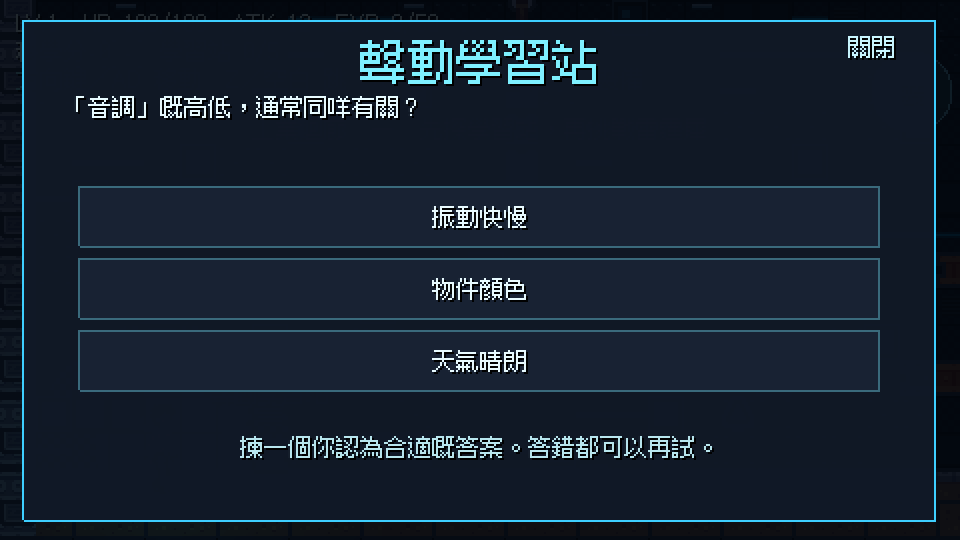
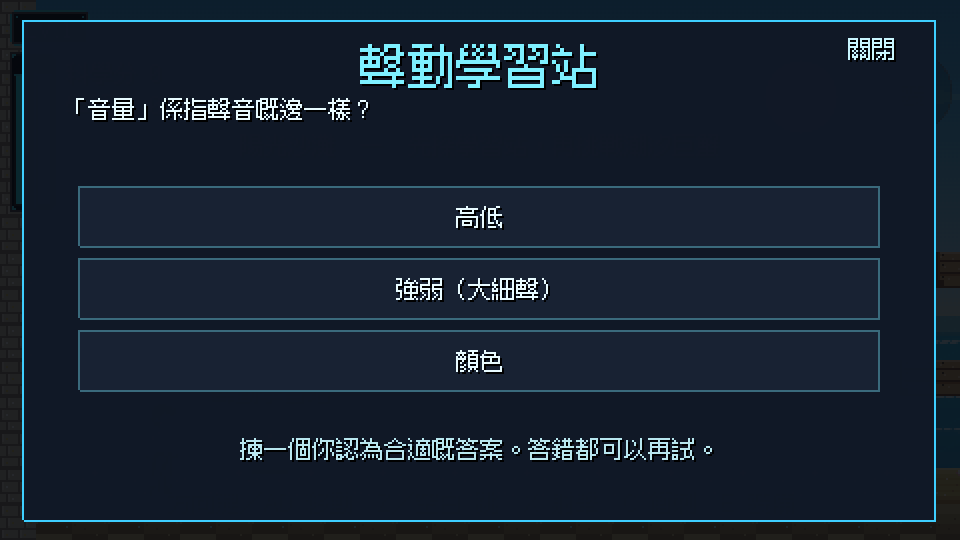
陽光海灘、踏腳平台、小動物敵人與點陣字

diff --git a/index.html b/index.html
@@ -25,7 +25,7 @@
     }
     * { margin: 0; padding: 0; box-sizing: border-box; }
     html, body {
-      background: #2a1218;
+      background: #5ec8ee;
       width: 100%;
       height: 100%;
       overflow: hidden;
@@ -35,7 +35,7 @@
     }
     body { display: flex; justify-content: center; align-items: center; font-family: "Fusion Pixel", sans-serif; }
     #game-container { width: 100%; height: 100%; }
-    canvas { image-rendering: pixelated; image-rendering: crisp-edges; box-shadow: 0 0 32px rgba(180, 70, 40, 0.28); }
+    canvas { image-rendering: pixelated; image-rendering: crisp-edges; box-shadow: 0 0 32px rgba(40, 140, 200, 0.28); }
     .font-warmup {
       position: absolute;
       left: -9999px;

diff --git a/README.md b/README.md
@@ -2,7 +2,7 @@
 
 原創科幻像素橫向捲軸動作 RPG。向經典 16-bit／NDS 風格側視動作遊戲致敬，但**並非官方洛克人作品**，亦無使用任何官方角色、精靈圖、音樂或盜用素材。
 
-你扮演一位原創像素獵人（根據提供相片繪製：卷发、白色唐裝領襯衫、黑色長褲、赤褐色運動鞋、前臂青色手砲，沒有頭盔），喺黃昏戶外工業遺跡裡衝刺、蹬牆跳、探索學習站、收集裝甲零件同晶片，最後挑戰多階段首領「雷霆犀」。畫面風格向經典掌機橫向動作遊戲致敬，但所有遠景、平台同介面均為本專案原創像素圖，並無使用任何官方洛克人／Zero／ZX 精靈圖、圖塊、HUD 或音樂。
+你扮演一位原創像素獵人（根據提供相片繪製：卷发、白色唐裝領襯衫、黑色長褲、赤褐色運動鞋、前臂青色手砲，沒有頭盔），喺陽光海灘關卡裡衝刺、跳躍、探索學習站、收集裝甲零件同晶片，最後挑戰多階段首領「潮汐巨蟹」。畫面係開心嘅晴天沙灘（原創 NDS 密度像素遠景），沿途敵人係可愛小動物，並無使用任何官方洛克人／Zero／ZX 精靈圖、圖塊、HUD 或音樂。蹬牆跳仍然可用作捷徑，但主路、五個學習站同沿途零件都可以用普通跳躍到達。
 
 本遊戲對齊香港小學二年級科學、校本 2627 學段二課題，供課堂探索練習，**勿直接當評核試卷**。
 
@@ -55,21 +55,21 @@ npm run preview
 - 每站會從題庫抽出一題尚未答過嘅題目（每課題約 3–4 題，合共 20 題），三選一，字體同按鈕都偏大，方便 iPad 點擊。
 - 答對會看到一句解釋、加「科學分」，並可用瀏覽器語音（`zh-HK`）讀出關鍵生字；答錯會得到提示，可以再試，唔會卡住，亦唔會責罵。
 - 畫面會顯示科學分同學習站進度（例如「學習站 2/5」）。
-- 要先喺五個課題都至少答對一題，先可以打開首領門挑戰「雷霆犀」。如果提早走到門前，會有友善提示，請先完成學習站。
+- 要先喺五個課題都至少答對一題，先可以打開首領門挑戰「潮汐巨蟹」。如果提早走到門前，會有友善提示，請先完成學習站。
 
 呢部分係課堂練習／探索，不是測驗，沒有考試記分用意。
 
 ### 關卡同首領
 
-黃昏工業遺跡由左至右推進，途中有高牆可以練習貼牆滑行同蹬牆跳。地圖係真實 Tiled 1.x JSON（`public/assets/maps/stage1.json`），以 Phaser 嘅 tilemap 載入器讀取。關卡有分層黃昏遠景（天空、遠處剪影、中景廢墟）同原創地面圖塊；碰撞形狀同物件位置維持不變。
+陽光海灘由左至右推進。地圖係真實 Tiled 1.x JSON（`public/assets/maps/stage1.json`），以 Phaser 嘅 tilemap 載入器讀取。關卡有分層晴空／海面／棕櫚遠景，同原創沙地、木棧道圖塊。原有碰撞佔位同物件位置維持不變，另外加咗踏腳平台，令主路同學習站唔需要蹬牆跳都可以上去。
 
-關卡盡頭係首領擂台。完成五個學習站後，踏入觸發區鏡頭會鎖喺擂台，「雷霆犀」分三階段戰鬥：
+關卡盡頭係首領擂台。完成五個學習站後，踏入觸發區鏡頭會鎖喺擂台，「潮汐巨蟹」分三階段戰鬥：
 
 1. 巡邏、砲火齊射、跳躍同角撞。
 2. 約三分二血量：加速、橫向衝撞、地面震擊彈。
 3. 約四分一血量：絕望模式（落彈＋螺旋彈＋衝撞），外觀會有電光光環。
 
-擊破後會得到經驗值同獨特零件「雷霆角盔」，並顯示過關訊息。如果戰鬥中力盡，按「跳」可以在擂台入口重新起動（首領會重置，已有裝備同等級會保留）。
+擊破後會得到經驗值同獨特零件「潮汐甲盔」，並顯示過關訊息。如果戰鬥中力盡，按「跳」可以在擂台入口重新起動（首領會重置，已有裝備同等級會保留）。
 
 ## GitHub Pages
 
@@ -81,7 +81,7 @@ npm run preview
 
 嵌入 Google Sites：選「嵌入」→「依網址」，貼上面呢條即可。
 
-**注意：** 本次係本機更新（黃昏遠景畫面、左側 HUD、清晰字體、相片主角、學習站）。線上 GitHub Pages 尚未同步，需要稍後另一步先推送更新。
+**注意：** 本次係本機更新（陽光海灘、踏腳平台、小動物敵人、潮汐巨蟹、點陣介面字）。線上 GitHub Pages 尚未同步，需要稍後另一步先推送更新。
 
 ## 技術棧
 
@@ -92,11 +92,11 @@ npm run preview
 
 ## 素材同授權
 
-- 地圖圖塊：Kenney.nl《Pixel Platformer Industrial Expansion》（CC0）。完整授權見 `LICENSE-Kenney-Pixel-Platformer-Industrial-Expansion.txt`。本專案另加一列背景牆面同第九列原創地面／平台／桁架圖塊（同樣以 CC0／與主程式 MIT 相容方式提供）。
-- 黃昏遠景、太陽、介面能量條外框、擊中火花同槍口閃光：本專案原創像素圖，並非官方洛克人素材。
-- 介面字型：[Fusion Pixel Font](https://github.com/TakWolf/fusion-pixel-font)（SIL Open Font License 1.1）。完整授權見 `LICENSE-Fusion-Pixel-Font.txt`。
+- 地圖圖塊：Kenney.nl《Pixel Platformer Industrial Expansion》（CC0）。完整授權見 `LICENSE-Kenney-Pixel-Platformer-Industrial-Expansion.txt`。本專案另加一列背景牆面同第九列原創沙地／木棧道／淺石牆／海水圖塊（同樣以 CC0／與主程式 MIT 相容方式提供）。Kenney 前 112 格保持原樣。
+- 晴空、海面、島嶼、棕櫚遠景、太陽、介面能量條外框、擊中火花同槍口閃光：本專案原創像素圖，並非官方洛克人素材。
+- 介面字型：[Fusion Pixel Font](https://github.com/TakWolf/fusion-pixel-font)（SIL Open Font License 1.1）12px 比例香港繁體／拉丁。遊戲內 UI 使用由該字型烘焙嘅清晰點陣字圖集（`public/fonts/fusion-12.png` 同 `.xml`），避免瀏覽器抗鋸齒同畫布放大令字形發糊。完整授權見 `LICENSE-Fusion-Pixel-Font.txt`。官方 Fusion Pixel 提供 8／10／12px，本專案用 12px 正文同整數 2 倍（24px）標題。
 - 主角係根據課堂提供嘅相片繪製嘅原創像素角色，並非官方洛克人角色。
-- 首領「雷霆犀」、敵人、子彈、拾取物同學習站圖示，均為本專案原創烘焙貼圖。若相片精靈圖未能載入，會退回簡易烘焙造型。
+- 首領「潮汐巨蟹」、巡邏小動物（螃蟹、海鷗、小狗）、子彈、拾取物同學習站圖示，均為本專案原創像素圖。若精靈圖未能載入，會退回簡易烘焙造型。
 - 程式碼：MIT，見 `LICENSE`。更詳細來源說明見 `NOTICE`。
 
 ## 呢個專案唔係官方洛克人作品
